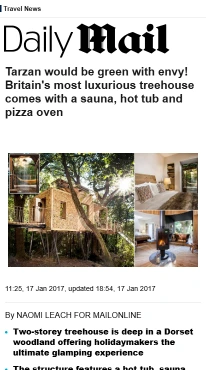
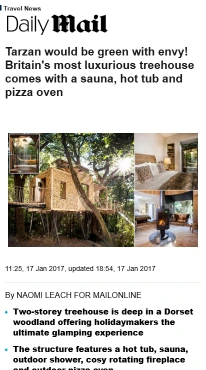
Set the Daily Mail masthead back to the size the cutting had it
Taking the masthead from the desktop page brought the mark back but at the
size that template draws it, which fills most of a desktop column -- about
340 across in a 412 tile where the cutting used to carry it at about 200.

The strip above it is left alone, since shrinking the whole band would leave
that ending in the middle of nowhere. Only the mark is scaled, and set back on
the margin it sat on.

diff --git a/public/press.html b/public/press.html
@@ -393,7 +393,7 @@
                     </li>
                     <li id="press-dailymail" data-location="dorset">
                       <article class="ch-press__card">
-                        <a class="ch-press__clip" href="https://www.dailymail.co.uk/travel/travel_news/article-4127672/Britain-s-best-treehouses.html" target="_blank" rel="noopener" aria-label="Read &ldquo;Britain&#x27;s most luxurious treehouse comes with a sauna&rdquo; on Daily Mail"><img src="images/press-shots/dailymail-412.webp?v=20260926a" srcset="images/press-shots/dailymail-206.webp?v=20260926a 206w, images/press-shots/dailymail-412.webp?v=20260926a 412w" sizes="(max-width: 767px) 45vw, 14rem" loading="lazy" decoding="async" alt=""></a>
+                        <a class="ch-press__clip" href="https://www.dailymail.co.uk/travel/travel_news/article-4127672/Britain-s-best-treehouses.html" target="_blank" rel="noopener" aria-label="Read &ldquo;Britain&#x27;s most luxurious treehouse comes with a sauna&rdquo; on Daily Mail"><img src="images/press-shots/dailymail-412.webp?v=20260926b" srcset="images/press-shots/dailymail-206.webp?v=20260926b 206w, images/press-shots/dailymail-412.webp?v=20260926b 412w" sizes="(max-width: 767px) 45vw, 14rem" loading="lazy" decoding="async" alt=""></a>
                         <div class="ch-press__body">
                           <span class="ch-press__logo" role="img" aria-label="Daily Mail" style="-webkit-mask-image:url('images/press/dailymail.png');mask-image:url('images/press/dailymail.png')"></span>
                           <p class="ch-press__year">2017 &middot; Dorset</p>

diff --git a/public/dorset-press.html b/public/dorset-press.html
@@ -246,7 +246,7 @@
                     </li>
                     <li id="press-dailymail" data-location="dorset">
                       <article class="ch-press__card">
-                        <a class="ch-press__clip" href="https://www.dailymail.co.uk/travel/travel_news/article-4127672/Britain-s-best-treehouses.html" target="_blank" rel="noopener" aria-label="Read &ldquo;Britain&#x27;s most luxurious treehouse comes with a sauna&rdquo; on Daily Mail"><img src="images/press-shots/dailymail-412.webp?v=20260926a" srcset="images/press-shots/dailymail-206.webp?v=20260926a 206w, images/press-shots/dailymail-412.webp?v=20260926a 412w" sizes="(max-width: 767px) 45vw, 14rem" loading="lazy" decoding="async" alt=""></a>
+                        <a class="ch-press__clip" href="https://www.dailymail.co.uk/travel/travel_news/article-4127672/Britain-s-best-treehouses.html" target="_blank" rel="noopener" aria-label="Read &ldquo;Britain&#x27;s most luxurious treehouse comes with a sauna&rdquo; on Daily Mail"><img src="images/press-shots/dailymail-412.webp?v=20260926b" srcset="images/press-shots/dailymail-206.webp?v=20260926b 206w, images/press-shots/dailymail-412.webp?v=20260926b 412w" sizes="(max-width: 767px) 45vw, 14rem" loading="lazy" decoding="async" alt=""></a>
                         <div class="ch-press__body">
                           <span class="ch-press__logo" role="img" aria-label="Daily Mail" style="-webkit-mask-image:url('images/press/dailymail.png');mask-image:url('images/press/dailymail.png')"></span>
                           <p class="ch-press__year">2017</p>
